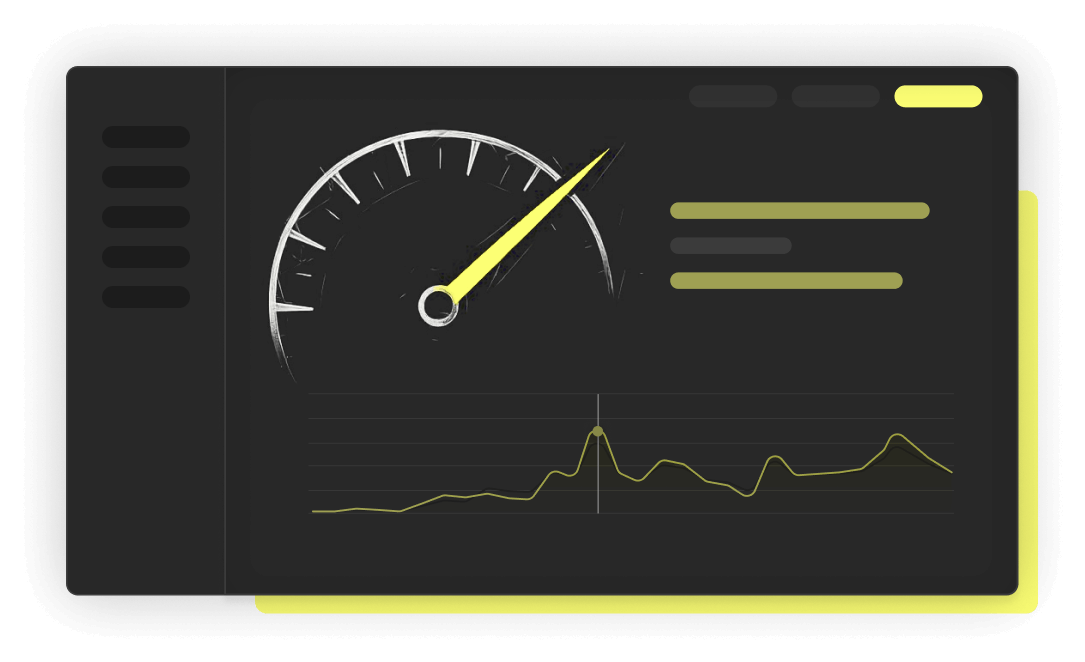
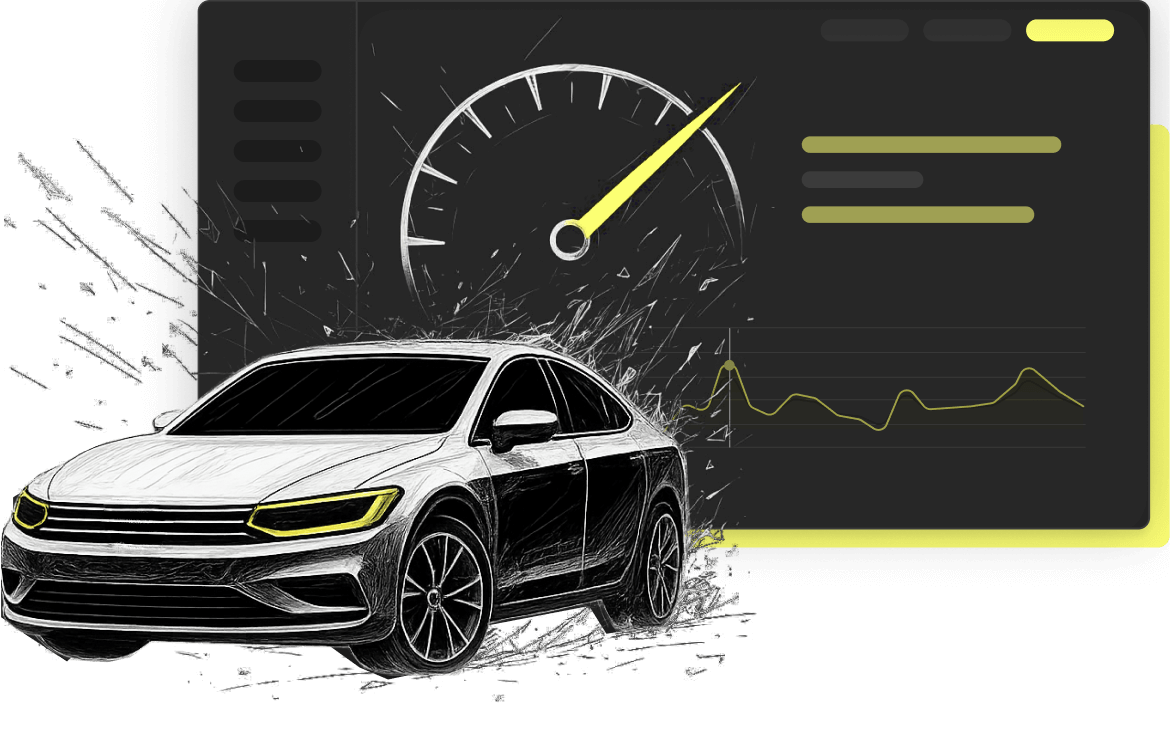
New hero image

diff --git a/src/pages/industries/automotive/index.tsx b/src/pages/industries/automotive/index.tsx
@@ -93,8 +93,8 @@ export default function GamingIndustryPage({
             <Image
               src={hero}
               alt='Automtive'
-              width={1085 / 1.5}
-              height={662 / 1.5}
+              width={1170 / 1.5}
+              height={732 / 1.5}
               className='h-auto w-full'
               loading='eager'
               priority
